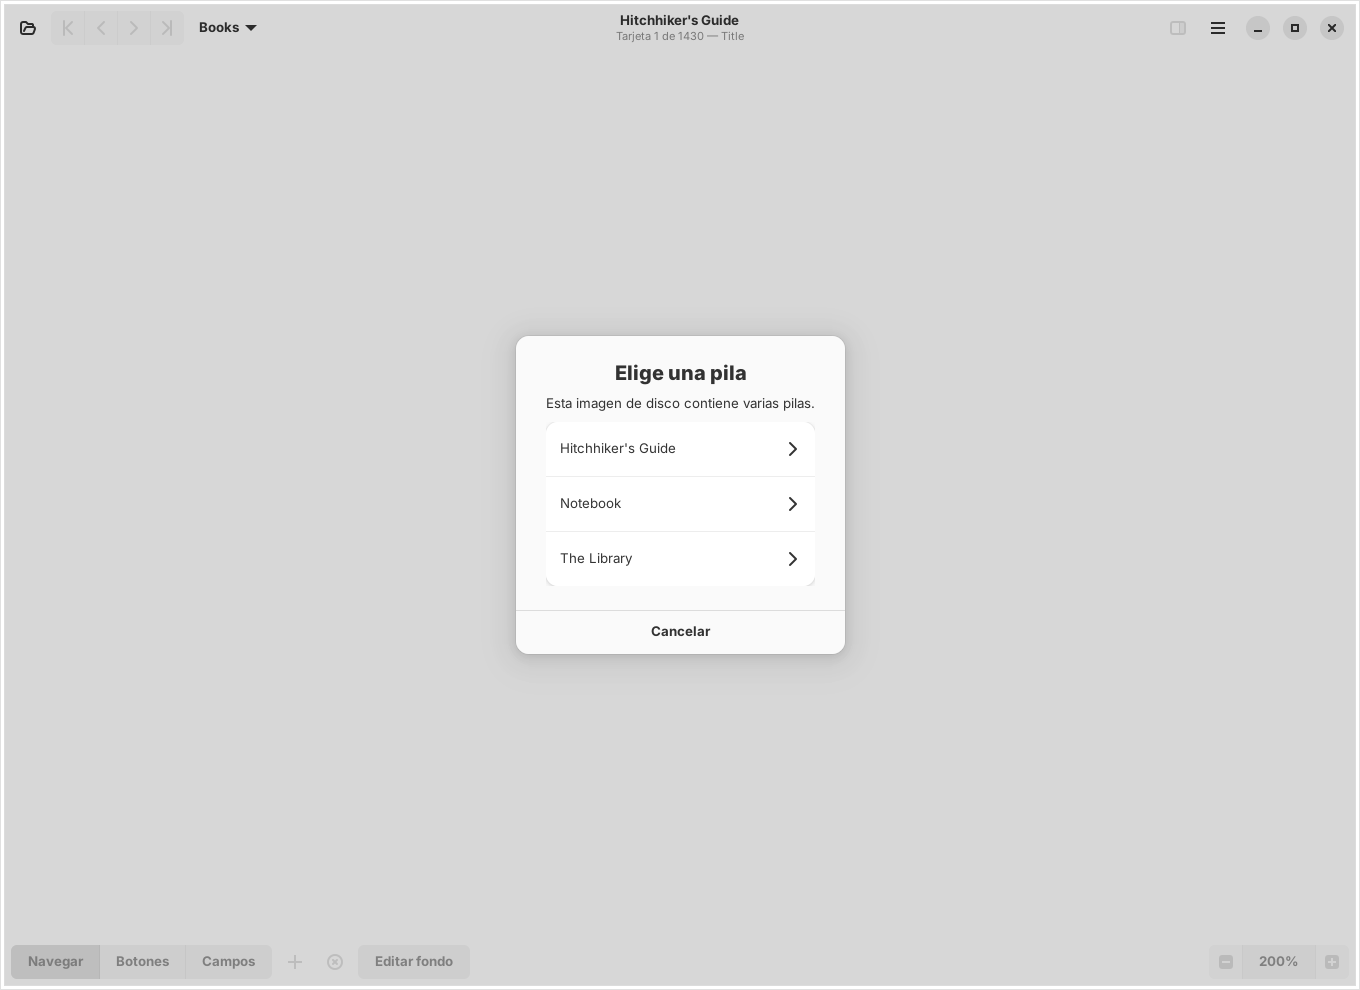
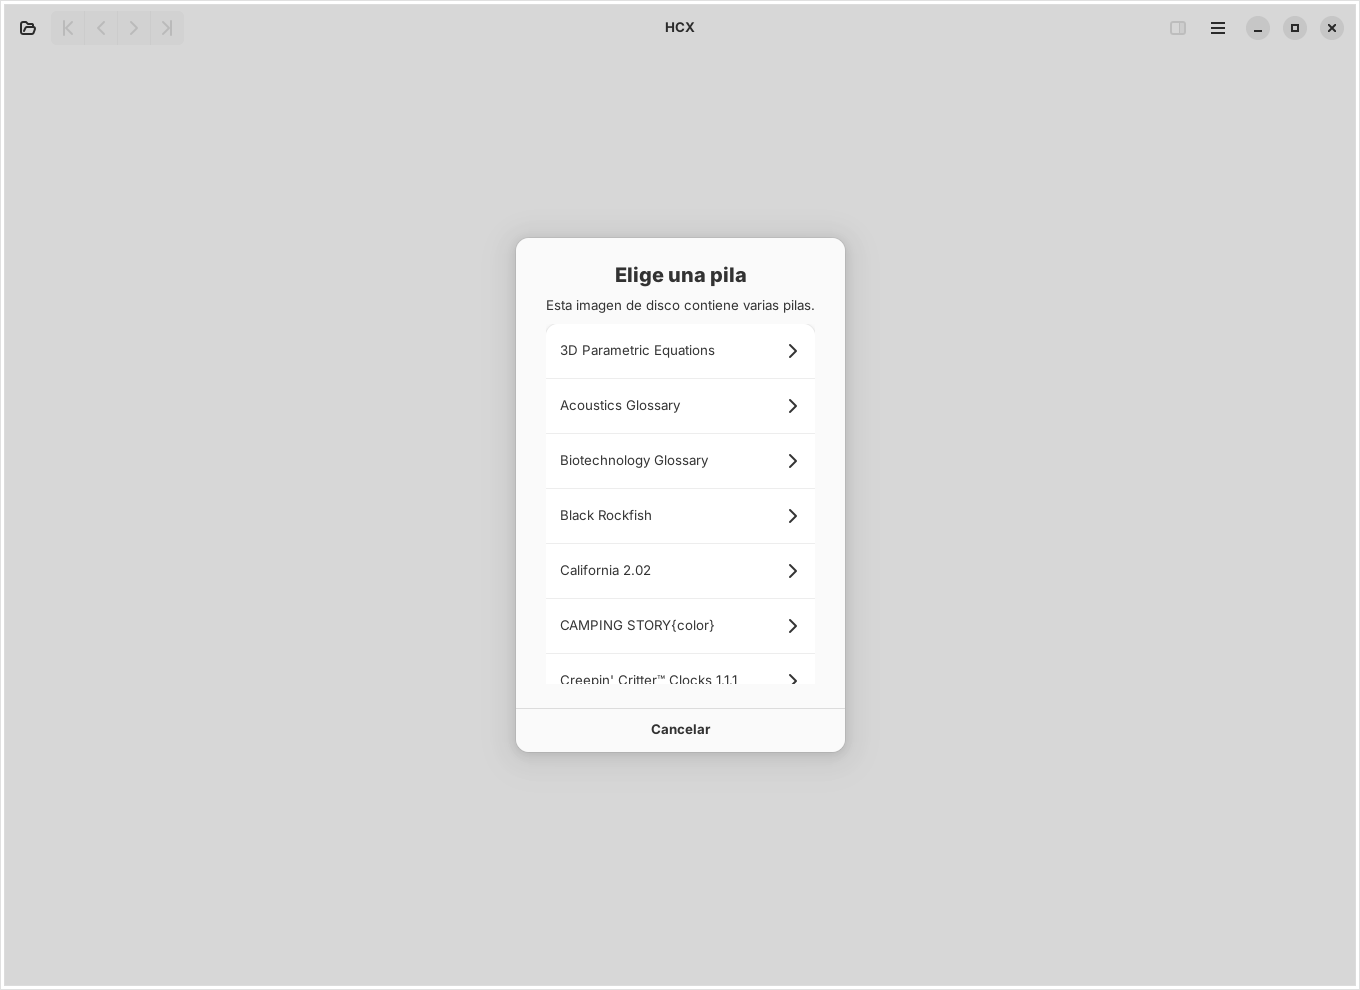
README: screenshots from many different stacks
Replace most Hitchhiker's Guide screenshots with stacks from the test
collections (Clue Deluxe, Periodic Table, Black Rockfish, Carrot Patch,
HypoGraph, Tirada Celta), keeping one of the Guide. The AppStream
metadata uses the new screenshots too.

Claude-Session: https://claude.ai/code/session_01LMNFLHptEYbpLVsGfk1M6S

diff --git a/README.md b/README.md
@@ -4,18 +4,20 @@ HCX é um leitor de pilhas HyperCard do Mac clássico. Esta é a versão para Li
 
 ## Capturas de tela
 
-![Um cartão do Hitchhiker’s Guide com a paleta da pilha e o resultado de uma busca por “Arthur”](docs/screenshots/find.png)
+![Tela de abertura do jogo Clue Deluxe, em cores](docs/screenshots/clue-deluxe.png)
 
 | | |
 |---|---|
-| ![Capa da pilha](docs/screenshots/stack.png) | ![Menu de capítulos aberto pela paleta da pilha](docs/screenshots/chapter-menu.png) |
-| Capa do *Hitchhiker's Guide* (Voyager Expanded Book) | O menu de capítulos da paleta, feito em HyperTalk pela própria pilha |
-| ![Inspetor de objetos em português](docs/screenshots/inspector.png) | ![Menu de idioma em inglês](docs/screenshots/language-menu.png) |
-| O inspetor mostra as propriedades de botões, campos, cartões e da pilha | O idioma da interface pode ser trocado no menu |
-| ![Escolha de pilha em espanhol](docs/screenshots/choose-stack.png) | ![Cartão colorido da pilha Tirada Celta](docs/screenshots/colors.png) |
-| Uma imagem de disco com várias pilhas (interface em espanhol) | Uma pilha colorida com o AddColor (*Tirada Celta*) |
+| ![Tabela periódica colorida](docs/screenshots/periodic-table.png) | ![Guia de identificação Black Rockfish](docs/screenshots/black-rockfish.png) |
+| *Periodic Table*: uma pilha educativa colorida com o AddColor | *Black Rockfish*: guia de identificação com fotos |
+| ![Jogo Carrot Patch com o aviso de shareware](docs/screenshots/carrot-patch.png) | ![HypoGraph desenhando gráficos de funções](docs/screenshots/hypograph.png) |
+| *Carrot Patch*: jogo em preto e branco, com o diálogo do próprio script | *HypoGraph*: gráficos de funções desenhados em HyperTalk |
+| ![Cartão colorido da pilha Tirada Celta](docs/screenshots/colors.png) | ![Um cartão do Hitchhiker's Guide com a paleta da pilha e o resultado de uma busca](docs/screenshots/find.png) |
+| *Tirada Celta*: figuras coloridas guardadas fora da pilha | *The Hitchhiker's Guide to the Galaxy* (Voyager): paleta e busca feitas pela própria pilha |
+| ![Escolha de pilha em espanhol](docs/screenshots/choose-stack.png) | ![Inspetor mostrando o cartão e o script da tabela periódica](docs/screenshots/inspector.png) |
+| Uma imagem de disco com mais de cem pilhas (interface em espanhol) | O inspetor mostra propriedades e scripts (interface em inglês) |
 
-As capturas usam as pilhas *The Hitchhiker's Guide to the Galaxy* da Voyager e *Tirada Celta*, que serviram de teste. O conteúdo delas pertence aos seus autores e não faz parte deste projeto.
+As capturas usam pilhas das coleções HyperCardVol1 e HyperCardVol2 e o *Hitchhiker's Guide* da Voyager, que serviram de teste. O conteúdo de cada pilha pertence aos seus autores e não faz parte deste projeto.
 
 ## Como rodar
 
